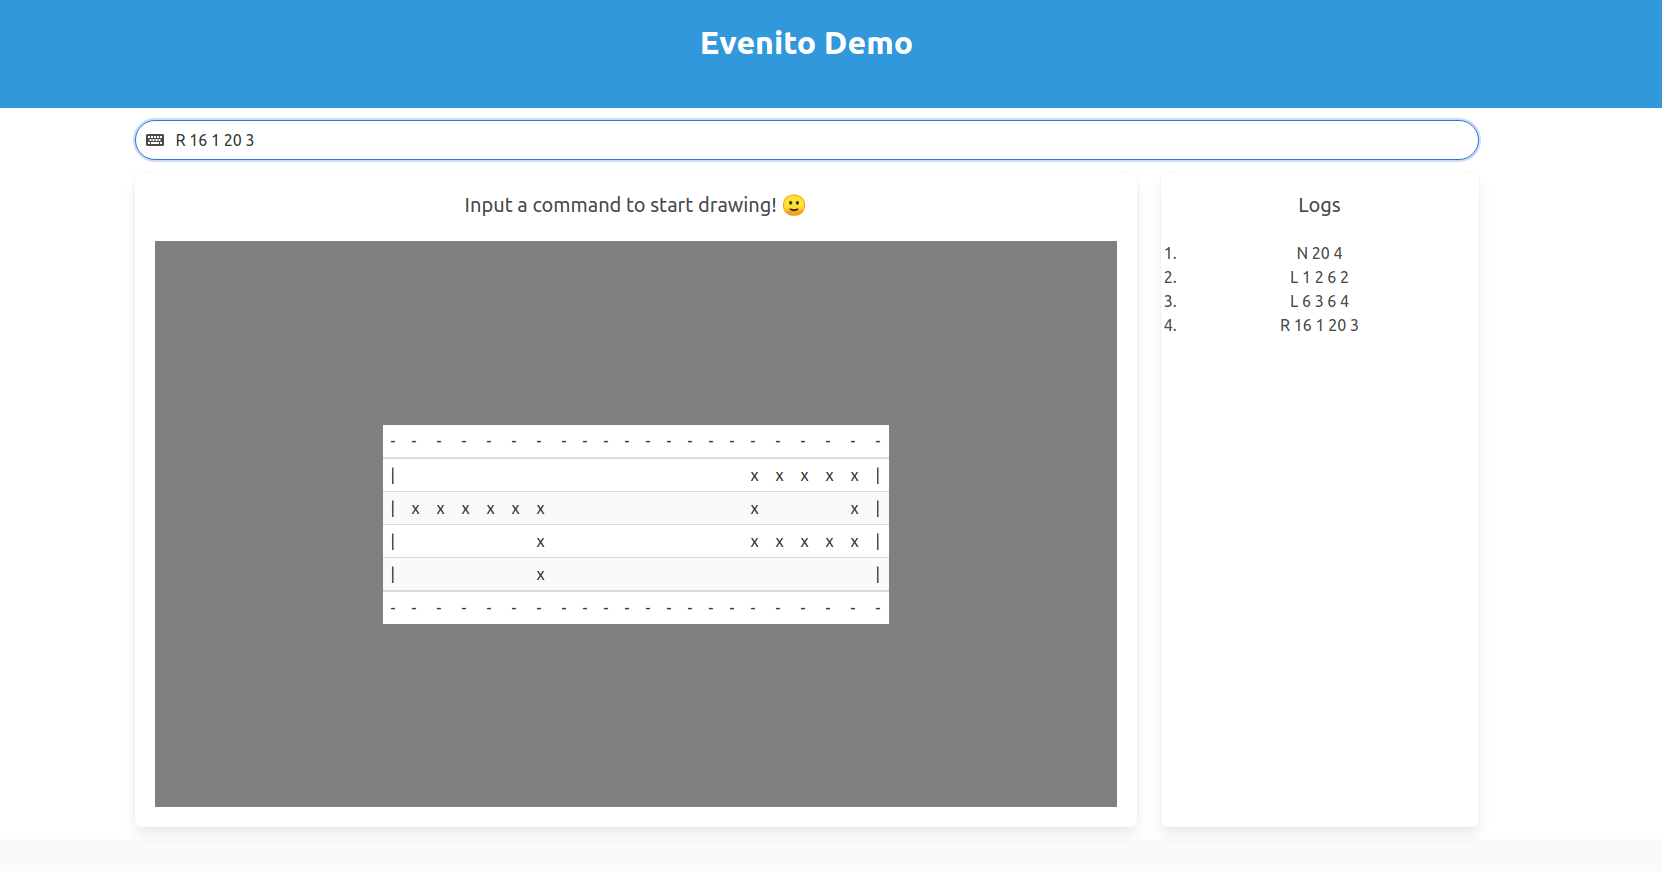
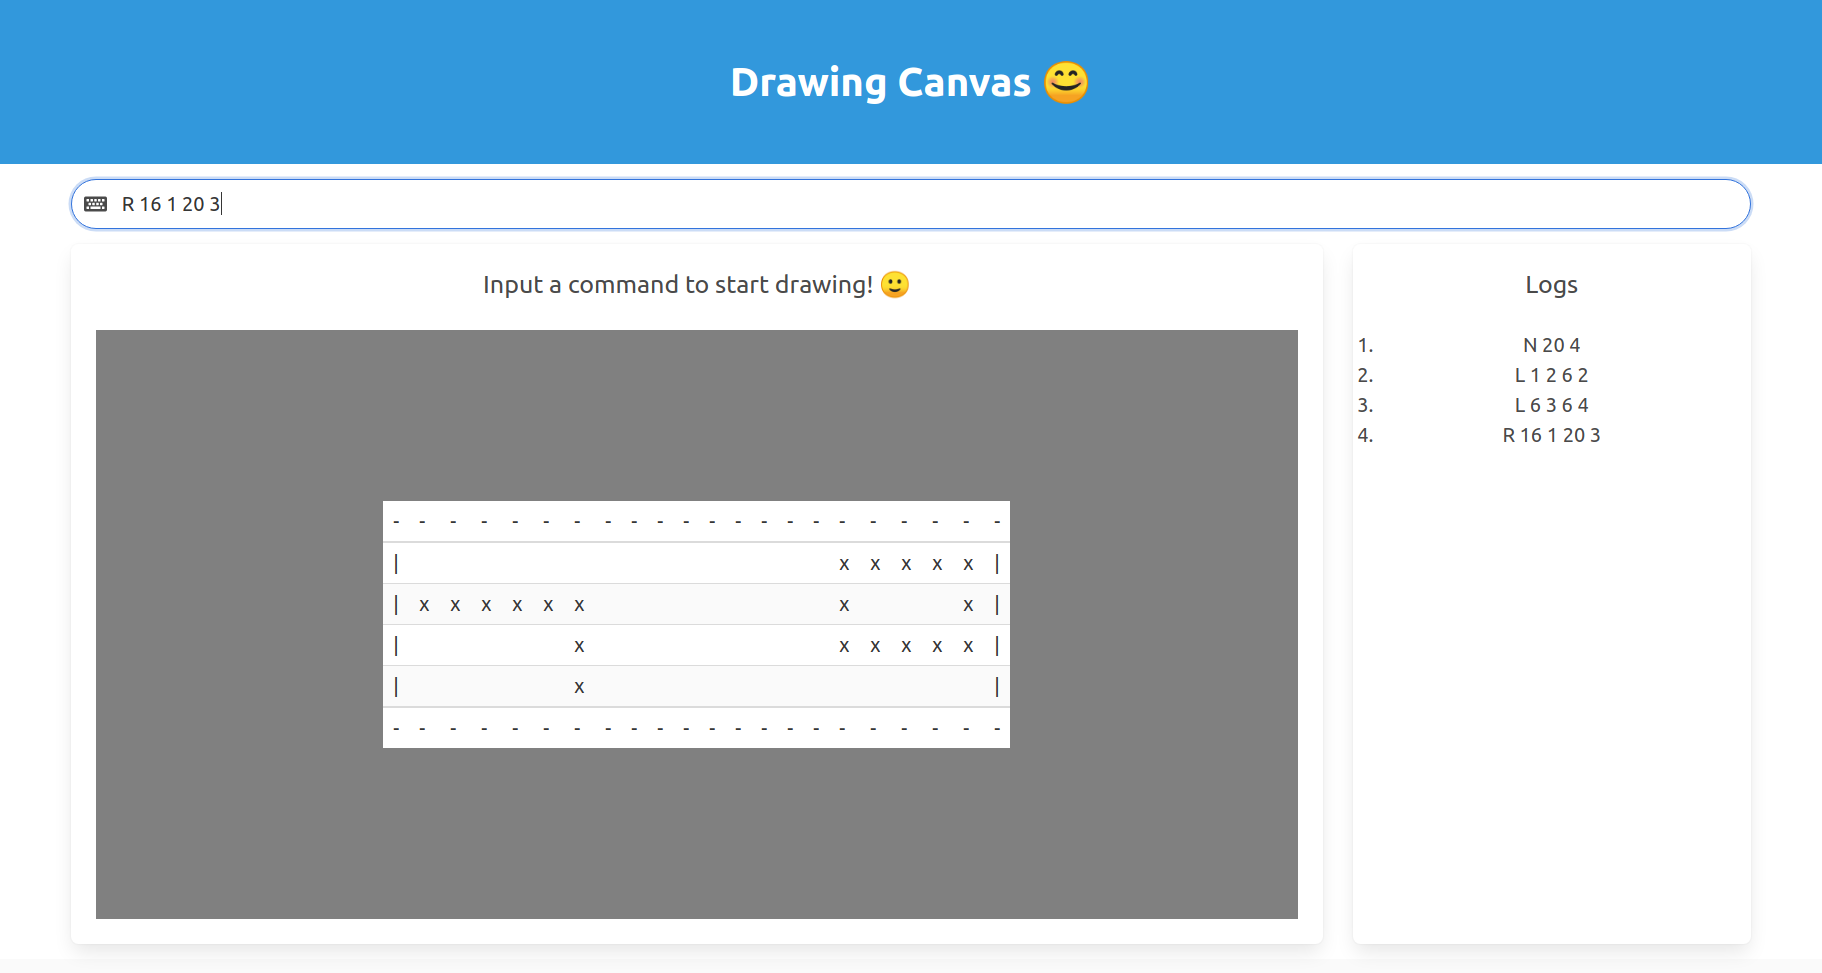
Modified README

diff --git a/src/components/layout/Footer.tsx b/src/components/layout/Footer.tsx
@@ -1,12 +1,31 @@
 import React from "react";
+import './styles.css';
 
 export const Footer = (): JSX.Element => {
     return (
         <footer className="footer mt-3">
             <div className="content">
+
+                <h2>List of available commands and examples</h2>
+                        <ul>
+                            <li className="instructions">N (starts a new Canva) Example: N 20 4</li>
+
+                            <li className="instructions"> L (draws a line with the coordinates (x1,y1) as starting point and (x2,y2) as ending point ) Example: L 1 2 6 2</li>
+
+                            <li className="instructions">R (draws a rectangle from (x1,y1) to (x2,y2)) Example: R 16 1 20 3</li>
+
+                            <li className="instructions">C (uses a letter to simulate a color) Example: C o</li>
+
+                            <li className="instructions">U Undo last action</li>
+
+                            <li className="instructions">Q Close the program</li>
+
+
+                        </ul>
                 <p>
-                   by <a href="https://github.com/Rodolfoarv/Evenito">Rodolfo Andrés Ramírez Valenzuela</a>
+                   by <a href="https://github.com/Rodolfoarv/DrawingCanvas">Rodolfo Andrés Ramírez Valenzuela</a>
                 </p>
+
             </div>
         </footer>
     );

diff --git a/src/components/layout/__test__/Layout.spec.tsx b/src/components/layout/__test__/Layout.spec.tsx
@@ -13,7 +13,7 @@ describe('<Layout />', () => {
                 <p>Dummy</p>
             </Layout>
         );
-        expect(documentBody.getByText("Evenito Demo")).toBeDefined();
+        expect(documentBody.getByText("Drawing Canvas 😊")).toBeDefined();
         expect(documentBody.getByText("Dummy")).toBeDefined();
         expect(documentBody.getByText("Rodolfo Andrés Ramírez Valenzuela")).toBeDefined();
     });

diff --git a/src/screens/HomeScreen.tsx b/src/screens/HomeScreen.tsx
@@ -44,6 +44,7 @@ export const HomeScreen = () : JSX.Element => {
                 <div className="tile is-parent">
                     <div className="tile is-child box">
                         <p className="subtitle"> Input a command to start drawing! 🙂 </p>
+
                         { command && <CanvasBoard command={command} /> }
                     </div>
                 </div>

diff --git a/public/index.html b/public/index.html
@@ -25,7 +25,7 @@
       work correctly both with client-side routing and a non-root public URL.
       Learn how to configure a non-root public URL by running `npm run build`.
     -->
-    <title>Evenito Demo</title>
+    <title>Drawing Canvas :) Begin drawing!</title>
     <script defer src="https://use.fontawesome.com/releases/v5.3.1/js/all.js"></script>
   </head>
   <body>

diff --git a/src/__test__/App.test.tsx b/src/__test__/App.test.tsx
@@ -6,6 +6,6 @@ import '@testing-library/jest-dom';
 
 test('renders App', () => {
   const { getByText } = render(<App />);
-  const linkElement = getByText(/Evenito Demo/i);
+  const linkElement = getByText(/Drawing Canvas 😊/i);
   expect(linkElement).toBeInTheDocument();
 });

diff --git a/src/components/layout/Header.tsx b/src/components/layout/Header.tsx
@@ -6,7 +6,7 @@ export const Header = (): JSX.Element => {
         <div className="hero-body">
         <div className="container">
         <h1 className="title">
-           Evenito Demo
+           Drawing Canvas 😊
     </h1>
     </div>
     </div>

diff --git a/src/components/layout/styles.css b/src/components/layout/styles.css
@@ -1,0 +1,3 @@
+.instructions {
+  list-style-type: none;
+}

diff --git a/README.md b/README.md
@@ -1,6 +1,19 @@
 # Drawing Canvas
 
-This project is done for test purposes with JEST and Cypress in order to practice it, along with it, it contains a simple Drawing application that allows the user to graph and draw in a Canvas.
+This project was done just for fun :)
+
+I wanted to try some React concepts and to have a repository anyone could reference that highlights the most common concepts in React such as:
+
+- Creation of components
+- Typescript
+- Store
+- Migration from a class component to a functional component
+- UI construction
+- Unit testing
+- End to end testing
+- Hooks
+
+Feel free to use the project as you like and to switch to any PR to see the development of any particular feature, if there is any question feel free to hit me up.
 
 # Live demo
 
@@ -8,7 +21,7 @@ https://cranky-mayer-3e66e6.netlify.app/
 
 # Demo
 
-![Evenito](/public/evenitoDemo.gif)
+![Evenito](/public/demo.gif)
 
 ## Objective:
 
@@ -100,5 +113,3 @@ yarn test
 ![Doggo](/public/5.png)
 
 # Thank you
-
-
